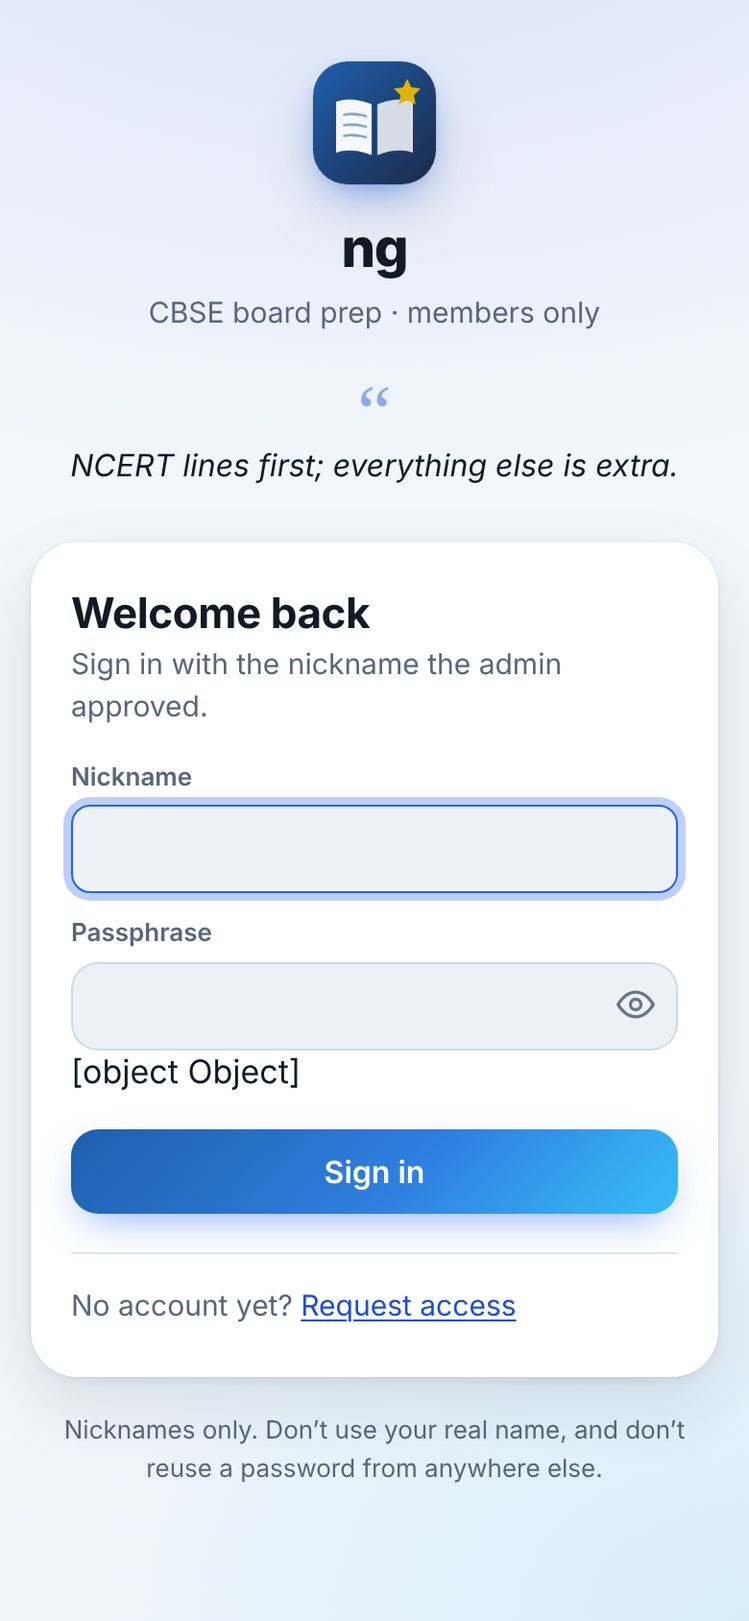
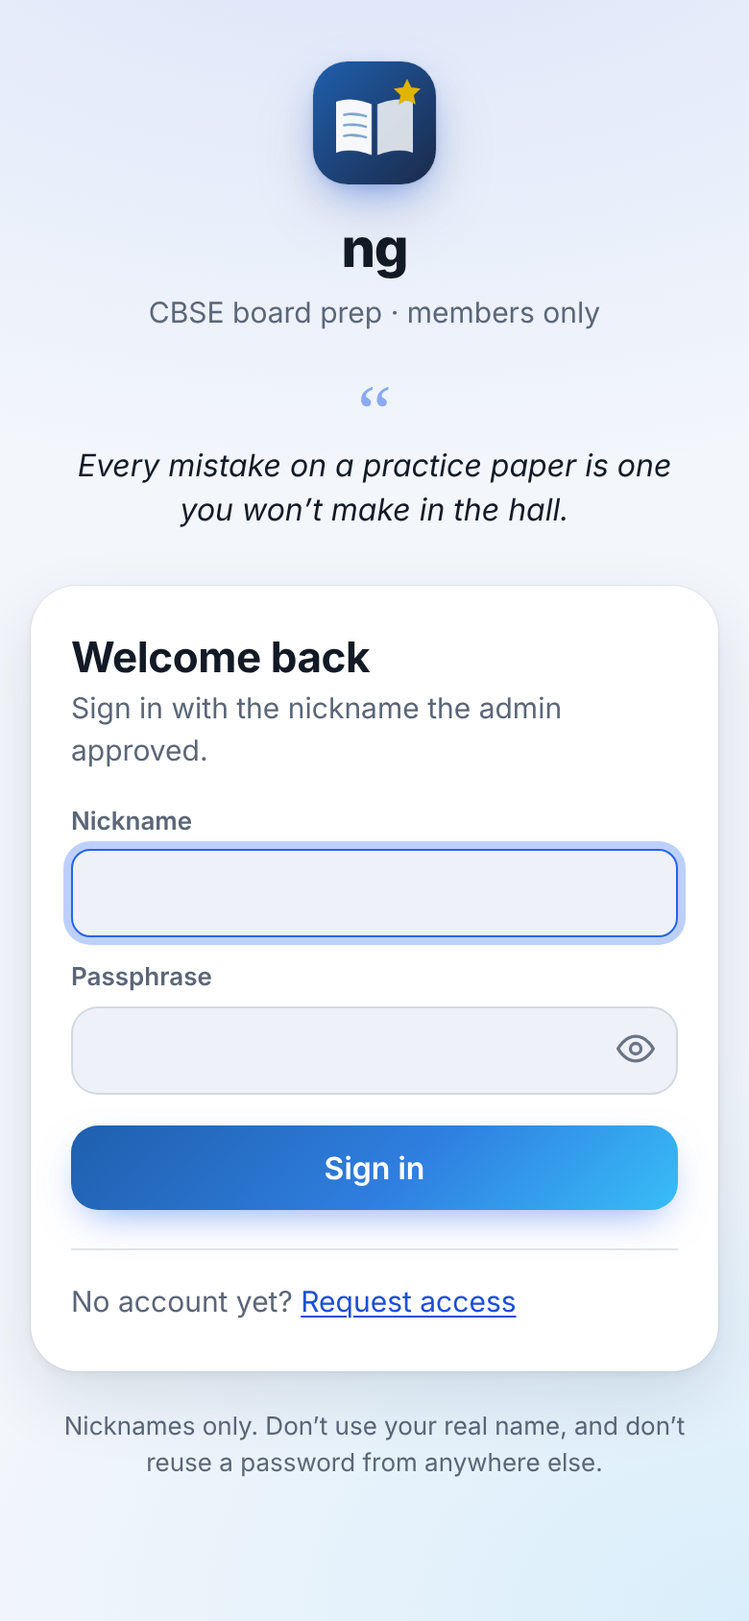
site: minimal Practice from questions.json, with a Mistakes list
- Chapter Practice tab: question count, Start, and a list by type (MCQ, A–R, Case, 2/3/5 marks) → …/<chapter>/quiz/<type>.
- Session (quiz.js): one question per screen; Hint first; MCQ / A–R marked on tap with the model answer as 'Why';
  written answers: 'Show answer' reveals the model answer and the step-mark scheme with tick boxes (self-mark);
  case questions show their parts and mark per part. Keys: 1–6 options, space show, Enter next, h hint.
- Wrong, or under half self-marked, goes to the Mistakes list (store.recordAttempt); a retry at half or better clears it.
- Practice tab: Mistakes card + chapters with questions; #/practice/mistakes lists them with tick-off; #/practice/retry runs them.
- Router: one extra path segment after the chapter tab. ui.raw() now stringifies (fixes [object Object] when nested).
- sw: quiz.js precached, CACHE_VERSION dev15.

Claude-Session: https://claude.ai/code/session_013Q11xHt3aNdyCJserdQXRT

diff --git a/app/views/quiz.js b/app/views/quiz.js
@@ -1,0 +1,163 @@
+// Practice session: one question per screen. Hint first; "Show answer" reveals the model answer and the
+// step-mark scheme with tick boxes so the student marks themselves. MCQ / A–R are marked automatically.
+// Wrong or low self-marked questions go to the Mistakes list (Practice tab). No timers, no exam builder.
+import { html, raw, icon, esc, emptyState, haptic } from '../ui.js';
+import { data, routeFor } from '../data.js';
+import { store } from '../store.js';
+
+export const TYPE_LABEL = { mcq: 'MCQ', ar: 'A–R', case: 'Case', vsa2: '2 marks', sa3: '3 marks', la5: '5 marks' };
+const KEYS = 'ABCDEF';
+
+/** …/<chapter>/quiz/<type|all> */
+export async function quizChapter({ cls, stream, sub, unit, ch, type }) {
+  const all = ch.items?.questions ? await data.questions(sub, ch.id).catch(() => []) : [];
+  const list = (type && type !== 'all' ? all.filter((q) => q.type === type) : all).map((q) => ({ ...q, _sub: sub, _ch: ch, _colour: unit.colour }));
+  return build({ title: `Practice · Ch ${ch.number}`, questions: list, back: routeFor(cls.id, stream.id, sub.id, ch.id, 'practice'), colour: unit.colour, cls, stream });
+}
+
+/** #/practice/retry — every question in the Mistakes list, for the student's subjects. */
+export async function quizMistakes() {
+  const s = store.settings;
+  const subjects = s.class ? (await data.liveSubjects(s.class, s.stream)).filter((x) => store.isMine(x.id)) : [];
+  const list = [];
+  const byKey = {};
+  for (const m of store.mistakes()) (byKey[m.key] ||= []).push(m.id);
+  for (const [key, ids] of Object.entries(byKey)) {
+    const [subId, chId] = key.split('/');
+    const sub = subjects.find((x) => x.id === subId); if (!sub) continue;
+    const { unit, chapter: ch } = data.chapterOf(sub, chId); if (!ch?.items?.questions) continue;
+    const qs = await data.questions(sub, chId).catch(() => []);
+    for (const id of ids) { const q = qs.find((x) => x.id === id); if (q) list.push({ ...q, _sub: sub, _ch: ch, _colour: unit.colour }); }
+  }
+  return build({ title: 'Practice · mistakes', questions: list, back: '#/practice', colour: null, cls: s.class, stream: s.stream, emptyTitle: 'Your mistakes list is empty', emptyText: 'Questions you get wrong, or mark yourself low on, collect here for a second go.' });
+}
+
+function build({ title, questions, back, colour, emptyTitle, emptyText }) {
+  return {
+    title, tab: 'practice', fullscreen: true, unitColour: colour,
+    html: html`<div class="rc pq" id="pq" style="${colour ? `--unit:#${colour}` : ''}">
+      <header class="rc__top">
+        <a class="icon-btn" href="${back}" aria-label="Close">${raw(icon('x'))}</a>
+        <div class="rc__title"><span id="pq-count" class="tnum"></span></div>
+        <span style="width:var(--tap)"></span>
+      </header>
+      <div class="rc__track"><span id="pq-bar"></span></div>
+      <main class="rc__stage" id="pq-stage"></main>
+      <footer class="rc__foot" id="pq-foot"></footer>
+    </div>`,
+    async mount(el) {
+      const stage = el.querySelector('#pq-stage'), foot = el.querySelector('#pq-foot'), count = el.querySelector('#pq-count'), bar = el.querySelector('#pq-bar');
+      if (!questions.length) { stage.innerHTML = String(emptyState({ icon: 'practice', title: emptyTitle || 'No questions of this kind yet', text: emptyText || 'Try another type, or another chapter.', action: `<a class="btn btn--secondary" href="${back}">Back</a>` })); return; }
+      const { renderMarkdown } = await import('../markdown.js');
+      const md = async (s, host) => { const n = await renderMarkdown(String(s || ''), { unitColour: colour || undefined, eager: true }); n.classList.add('rc__md'); host.appendChild(n); return n; };
+      let i = 0, state = null; // state: { q, revealed, got, ticks }
+      const results = [];
+      const autoMarked = (q) => q.type === 'mcq' || q.type === 'ar';
+      const schemeOf = (q) => q.scheme?.length ? q.scheme : q.parts?.length ? q.parts.flatMap((p, k) => (p.scheme?.length ? p.scheme.map((s) => ({ ...s, step: `(${p.id || k + 1}) ${s.step}` })) : [{ step: `(${p.id || k + 1}) ${p.answer ? `Answer: ${p.answer}` : p.model_answer || p.stem}`, marks: p.marks }])) : [{ step: 'Full answer', marks: q.marks }];
+
+      const show = async () => {
+        const q = questions[i]; state = { q, revealed: false, hinted: false, got: null, ticks: new Set() };
+        count.textContent = `${i + 1} of ${questions.length}`;
+        bar.style.width = (i / questions.length * 100).toFixed(1) + '%';
+        stage.innerHTML = `<div class="rc__card pq__card" style="--unit:#${q._colour}">
+            <div class="rc__meta"><span class="chip chip--unit">${esc(q._ch.title)}</span><span class="t-footnote t-3">${TYPE_LABEL[q.type] || q.type} · ${q.marks} mark${q.marks === 1 ? '' : 's'} · <span class="stars">${'★'.repeat(q.stars || 1)}</span> · ${esc(q.label)}</span></div>
+            <div class="pq__stem" id="pq-stem"></div>
+            <div id="pq-parts"></div>
+            <div class="pq__opts" id="pq-opts"></div>
+            <div class="box box--tip pq__hint" id="pq-hint" hidden><div class="box__label">Hint</div><div id="pq-hint-body"></div></div>
+            <div class="pq__answer" id="pq-answer" hidden></div>
+          </div>`;
+        await md(q.stem, stage.querySelector('#pq-stem'));
+        if (q.parts?.length) {
+          const host = stage.querySelector('#pq-parts');
+          for (const [k, p] of q.parts.entries()) {
+            const row = document.createElement('div'); row.className = 'pq__part';
+            row.innerHTML = `<span class="pq__part-key">(${esc(p.id || k + 1)})</span><div class="grow"></div><span class="marks-tag">${p.marks}</span>`;
+            host.appendChild(row); await md(p.stem + (p.options?.length ? '\n\n' + p.options.map((o, j) => `(${KEYS[j]}) ${o}`).join('  \n') : ''), row.querySelector('.grow'));
+          }
+        }
+        if (autoMarked(q)) {
+          const host = stage.querySelector('#pq-opts');
+          for (const [k, o] of q.options.entries()) {
+            const b = document.createElement('button'); b.type = 'button'; b.className = 'pq__opt'; b.dataset.key = KEYS[k];
+            b.innerHTML = `<span class="pq__key">${KEYS[k]}</span><div class="pq__opt-body"></div>`;
+            host.appendChild(b); await md(o, b.querySelector('.pq__opt-body'));
+          }
+        }
+        if (q.hint) await md(q.hint, stage.querySelector('#pq-hint-body'));
+        footer();
+      };
+      const footer = () => {
+        const q = state.q;
+        if (state.revealed) { foot.innerHTML = `<div class="rc__btns"><button class="btn" type="button" data-next>${i + 1 < questions.length ? 'Next' : 'Finish'} ${icon('chevronRight')}</button></div>`; return; }
+        if (autoMarked(q)) { foot.innerHTML = `<div class="rc__btns">${q.hint && !state.hinted ? `<button class="btn btn--plain" type="button" data-hint>${icon('sparkle')} Hint</button>` : '<span></span>'}<span class="t-footnote t-2 center" style="align-self:center">Tap an option</span></div>`; return; }
+        foot.innerHTML = `<div class="rc__btns">${q.hint && !state.hinted ? `<button class="btn btn--plain" type="button" data-hint>${icon('sparkle')} Hint</button>` : `<span></span>`}<button class="btn" type="button" data-reveal>Show answer</button></div>`;
+      };
+      const hint = () => { state.hinted = true; stage.querySelector('#pq-hint').hidden = false; haptic(); footer(); };
+      const choose = (key) => {
+        if (state.revealed) return;
+        const q = state.q; const right = (q.answer || '').trim().toUpperCase().slice(0, 1);
+        for (const b of stage.querySelectorAll('.pq__opt')) { b.disabled = true; if (b.dataset.key === right) b.classList.add('is-right'); else if (b.dataset.key === key) b.classList.add('is-wrong'); }
+        state.got = key === right ? q.marks : 0; state.revealed = true; haptic(key === right ? 'success' : 'medium');
+        const ans = stage.querySelector('#pq-answer'); ans.hidden = false;
+        ans.innerHTML = `<div class="pq__verdict ${key === right ? 'is-right' : 'is-wrong'}">${icon(key === right ? 'check' : 'x')} ${key === right ? 'Correct' : `Not this one — the answer is ${right}`}</div><div class="box box--formula"><div class="box__label">Why</div><div id="pq-why"></div></div>`;
+        md(q.model_answer || `Answer: ${right}`, ans.querySelector('#pq-why'));
+        footer();
+      };
+      const reveal = async () => {
+        if (state.revealed) return;
+        const q = state.q; state.revealed = true;
+        const ans = stage.querySelector('#pq-answer'); ans.hidden = false;
+        const scheme = schemeOf(q);
+        ans.innerHTML = `<div class="box box--skeleton"><div class="box__label">Model answer</div><div id="pq-model"></div></div>
+          <div class="pq__scheme"><div class="list__header" style="padding-left:0">Mark yourself <span class="count tnum" id="pq-score">0 / ${q.marks}</span></div>
+          ${scheme.map((s, k) => `<label class="pq__step"><input type="checkbox" data-step="${k}" data-marks="${s.marks}"><span class="pq__step-text"></span><span class="marks-tag">${s.marks}</span></label>`).join('')}
+          <p class="t-footnote t-3 mt-2">Tick each step you actually wrote. Under half goes to your Mistakes list.</p></div>`;
+        await md(q.model_answer || (q.parts || []).map((p, k) => `**(${p.id || k + 1})** ${p.answer ? `(${p.answer}) ` : ''}${p.model_answer || ''}`).join('<br>'), ans.querySelector('#pq-model'));
+        for (const [k, s] of scheme.entries()) await md(s.step, ans.querySelectorAll('.pq__step-text')[k]);
+        state.got = 0; haptic();
+        ans.addEventListener('change', () => {
+          let got = 0; for (const c of ans.querySelectorAll('input:checked')) got += Number(c.dataset.marks);
+          state.got = Math.min(q.marks, got); ans.querySelector('#pq-score').textContent = `${state.got} / ${q.marks}`;
+        });
+        footer();
+        setTimeout(() => ans.scrollIntoView({ behavior: 'smooth', block: 'start' }), 50);
+      };
+      const next = () => {
+        const q = state.q; const got = state.got ?? 0;
+        const low = store.recordAttempt({ id: q.id, key: `${q._sub.id}/${q._ch.id}`, type: q.type, marks: q.marks, got });
+        results.push({ q, got, low });
+        i++;
+        if (i < questions.length) show(); else finish();
+      };
+      const finish = () => {
+        bar.style.width = '100%'; count.textContent = 'Done';
+        const total = results.reduce((n, r) => n + r.q.marks, 0), got = results.reduce((n, r) => n + r.got, 0), low = results.filter((r) => r.low);
+        stage.innerHTML = `<div class="rc__card center">
+            <div class="rc__big tnum">${got}<span class="t-2" style="font-size:.5em"> / ${total}</span></div>
+            <div class="t-headline mt-2">${low.length === 0 ? 'All good.' : low.length <= 2 ? 'Nearly there.' : 'Worth a second go.'}</div>
+            <p class="t-2 t-subhead mt-2">${low.length ? `${low.length} question${low.length === 1 ? '' : 's'} added to your Mistakes list.` : 'Nothing added to your Mistakes list.'}</p>
+            ${low.length ? `<ul class="pq__lowlist">${low.map((r) => `<li>${esc(r.q._ch.title)} · ${TYPE_LABEL[r.q.type]} · ${r.got}/${r.q.marks}</li>`).join('')}</ul>` : ''}
+          </div>`;
+        foot.innerHTML = `<div class="rc__btns">${low.length ? `<a class="btn btn--plain" href="#/practice/retry">Retry mistakes</a>` : ''}<a class="btn" href="${back}">Done</a></div>`;
+      };
+      foot.addEventListener('click', (e) => {
+        if (e.target.closest('[data-hint]')) hint();
+        if (e.target.closest('[data-reveal]')) reveal();
+        if (e.target.closest('[data-next]')) next();
+      });
+      stage.addEventListener('click', (e) => { const b = e.target.closest('.pq__opt'); if (b && !b.disabled) choose(b.dataset.key); });
+      const onKey = (e) => {
+        if (/^(input|textarea|select)$/i.test(e.target.tagName) || i >= questions.length || document.querySelector('dialog[open]')) return;
+        if (e.key === 'Escape') location.hash = back;
+        else if (state.revealed && e.key === 'Enter') next();
+        else if (!state.revealed && autoMarked(state.q) && /^[1-6]$/.test(e.key)) choose(KEYS[Number(e.key) - 1]);
+        else if (!state.revealed && !autoMarked(state.q) && (e.key === ' ' || e.key === 'Enter')) { e.preventDefault(); reveal(); }
+        else if (e.key === 'h' && state.q.hint) hint();
+      };
+      document.addEventListener('keydown', onKey);
+      show();
+      return () => document.removeEventListener('keydown', onKey);
+    },
+  };
+}

diff --git a/app/views/practice.js b/app/views/practice.js
@@ -1,22 +1,54 @@
-import { html, raw, icon, largeTitle, esc, emptyState, listItem } from '../ui.js';
+// Practice tab: your Mistakes list, then the chapters that have questions. Sessions run in quiz.js.
+import { html, raw, icon, largeTitle, esc, emptyState, listItem, toast } from '../ui.js';
 import { data, routeFor } from '../data.js';
 import { store } from '../store.js';
+import { TYPE_LABEL } from './quiz.js';
 
-export async function practice() {
+export async function practice(route) {
+  if (route.sub === 'retry') { const { quizMistakes } = await import('./quiz.js'); return quizMistakes(); }
   const s = store.settings;
   if (!s.class) return { title: 'Practice', largeTitle: true, tab: 'practice', html: html`${largeTitle('Practice')}${emptyState({ icon: 'practice', title: 'Choose your class first', text: 'Practice sets are organised by subject and chapter.', action: '<a class="btn" href="#/classes">Choose class</a>' })}` };
   const subjects = (await data.liveSubjects(s.class, s.stream)).filter((x) => store.isMine(x.id));
+  if (route.sub === 'mistakes') return mistakesList(subjects, s);
   const withQ = subjects.map((sub) => ({ sub, chapters: data.allChapters(sub).filter((c) => c.items?.questions) })).filter((x) => x.chapters.length);
-  const mistakes = store.progress().mistakes?.length || 0;
+  const mistakes = store.mistakes().length;
   return {
     title: 'Practice', largeTitle: true, tab: 'practice',
-    html: html`${largeTitle('Practice', { eyebrow: 'By chapter, type and stars' })}
-      <div class="stats mb-4">
-        ${raw(`<div class="stat"><div class="stat__value tnum">${withQ.reduce((n, x) => n + x.chapters.reduce((m, c) => m + c.questions, 0), 0)}</div><div class="stat__label">questions in the bank</div></div>`)}
-        ${raw(`<div class="stat"><div class="stat__value tnum">${mistakes}</div><div class="stat__label">in your mistakes list</div></div>`)}
-      </div>
-      ${withQ.length ? withQ.map(({ sub, chapters }) => raw(`<div class="list__header"><span>${esc(sub.name)}</span><span class="count">${chapters.length} chapters</span></div><div class="list">${chapters.map((c) => listItem({ href: routeFor(s.class, s.stream, sub.id, c.id, 'practice'), title: `${c.number}. ${c.title}`, sub: `${c.questions} questions · ${Object.entries(c.question_types).map(([t, n]) => `${n} ${t}`).join(', ')}`, leading: String(c.number), leadingStyle: `--unit:#${c.unitObj.colour}` })).join('')}</div>`)) :
-        emptyState({ icon: 'practice', title: 'No practice sets yet', text: 'Question banks arrive subject by subject. Each question comes with a hint, a model answer and a step-mark scheme so you can mark yourself the way an examiner would.', action: '<a class="btn btn--secondary" href="#/subjects">Browse subjects</a>' })}
-      <div class="card mt-6"><div class="t-headline">How practice will work</div><ul class="t-2 t-subhead mt-2" style="padding-left:1.2em"><li>One question per screen; hint first, full answer only when you ask.</li><li>MCQ and A–R marked automatically; written answers shown with the step-mark scheme.</li><li>Timed exams built from the CBSE 2026–27 pattern: full paper, one unit, or chosen chapters.</li><li>Every wrong or low-marked question lands in your Mistakes list for revision.</li></ul></div>`,
+    html: html`${largeTitle('Practice', { eyebrow: 'One question at a time · mark yourself' })}
+      <a class="card continue pressable mb-4" href="#/practice/mistakes" style="--unit:${mistakes ? 'var(--danger)' : '#8795AB'}">
+        <span class="list__leading">${raw(icon('flag'))}</span>
+        <span class="continue__main"><span class="continue__title">${mistakes ? `${mistakes} in your Mistakes list` : 'Mistakes list is empty'}</span><span class="continue__sec" style="color:var(--text-2);font-weight:500">${mistakes ? 'Wrong or low-marked questions · tap to retry' : 'Wrong or low-marked questions collect here for a second go'}</span></span>
+        ${raw(icon('chevronRight', { class: 'chev', size: 20 }))}
+      </a>
+      ${withQ.length ? withQ.map(({ sub, chapters }) => raw(`<div class="list__header"><span>${esc(sub.name)}</span><span class="count">${chapters.reduce((n, c) => n + c.questions, 0)} questions</span></div><div class="list">${chapters.map((c) => String(listItem({ href: routeFor(s.class, s.stream, sub.id, c.id, 'practice'), title: `${c.number}. ${c.title}`, sub: Object.entries(c.question_types).map(([t, n]) => `${n} × ${TYPE_LABEL[t] || t}`).join(' · '), leading: String(c.number), leadingStyle: `--unit:#${c.unitObj.colour}` }))).join('')}</div>`)) :
+        emptyState({ icon: 'practice', title: 'No practice sets yet', text: 'Question banks arrive subject by subject. Each question has a hint, a model answer and a step-mark scheme so you can mark yourself the way an examiner would.', action: '<a class="btn btn--secondary" href="#/subjects">Browse subjects</a>' })}`,
+  };
+}
+
+async function mistakesList(subjects, s) {
+  const ms = store.mistakes();
+  const groups = {};
+  for (const m of ms) (groups[m.key] ||= []).push(m);
+  const rows = [];
+  for (const [key, list] of Object.entries(groups)) {
+    const [subId, chId] = key.split('/');
+    const sub = subjects.find((x) => x.id === subId); if (!sub) continue;
+    const { unit, chapter: ch } = data.chapterOf(sub, chId); if (!ch) continue;
+    const qs = ch.items?.questions ? await data.questions(sub, chId).catch(() => []) : [];
+    rows.push({ sub, ch, unit, items: list.map((m) => ({ m, q: qs.find((q) => q.id === m.id) })).filter((x) => x.q) });
+  }
+  return {
+    title: 'Mistakes', tab: 'practice', back: '#/practice',
+    html: html`<h1 class="t-title" style="margin:var(--s-4) 0">Mistakes</h1>
+      ${rows.length ? html`<a class="btn btn--block mb-4" href="#/practice/retry">${raw(icon('practice'))} Retry all ${ms.length}</a>
+        ${rows.map(({ sub, ch, unit, items }) => raw(`<div class="list__header"><span>${esc(sub.name)} · Ch ${ch.number}</span><span class="count">${items.length}</span></div><div class="list">${items.map(({ m, q }) => `<div class="list__item has-leading" style="--unit:#${unit.colour}"><span class="list__leading">${TYPE_LABEL[q.type]?.split(' ')[0] || q.type}</span><span class="list__body"><span class="list__title pq__stem-line">${esc(q.stem.replace(/\*+|<br>|\$/g, ' ').slice(0, 140))}</span><span class="list__sub">${m.got}/${m.marks} last time · ${esc(q.label)}</span></span><button class="icon-btn" type="button" data-clear="${esc(q.id)}" aria-label="Remove from mistakes">${icon('check')}</button></div>`).join('')}</div>`))}
+        <p class="t-footnote t-3 mt-4">A question leaves this list when you score at least half on a retry, or when you tick it off here.</p>`
+        : emptyState({ icon: 'check', title: 'Nothing here', text: 'Wrong answers and low self-marks from Practice collect here. Open a chapter’s Practice tab to start.', action: '<a class="btn btn--secondary" href="#/practice">Back to Practice</a>' })}`,
+    mount(el) {
+      el.addEventListener('click', (e) => {
+        const b = e.target.closest('[data-clear]'); if (!b) return;
+        store.clearMistake(b.dataset.clear); const item = b.closest('.list__item'); item.remove(); toast('Removed from mistakes');
+      });
+    },
   };
 }

diff --git a/app/views/chapter.js b/app/views/chapter.js
@@ -18,6 +18,7 @@ export async function chapter(route) {
   if (!ch) return { title: 'Not found', tab: 'subjects', back: routeFor(cls.id, stream.id, sub.id), html: emptyState({ icon: 'alert', title: 'No such chapter', action: `<a class="btn btn--secondary" href="${routeFor(cls.id, stream.id, sub.id)}">Back to ${esc(sub.name)}</a>` }) };
   if (route.tab === 'read') { const { reader } = await import('./reader.js'); return reader({ cls, stream, sub, unit, ch }); }
   if (route.tab === 'recall') { const { recallChapter } = await import('./recall.js'); return recallChapter({ cls, stream, sub, unit, ch }); }
+  if (route.tab === 'quiz') { const { quizChapter } = await import('./quiz.js'); return quizChapter({ cls, stream, sub, unit, ch, type: route.extra || 'all' }); }
   if (route.tab === 'formulas') route = { ...route, tab: 'mustknow' }; // old links
   if (route.tab === 'mynotes') route = { ...route, tab: null, openHighlights: true }; // old links: the sheet now
   const defaultTab = ch.items?.notes ? 'notes' : ch.items?.mustknow ? 'mustknow' : 'notes';
@@ -105,8 +106,19 @@ async function renderTab(tab, ctx) {
   if (tab === 'practice') {
     const q = ch.items?.questions ? await data.questions(sub, ch.id).catch(() => null) : null;
     if (!q?.length) { panel.innerHTML = String(emptyState({ icon: 'practice', title: 'No practice questions yet', text: 'Each question comes with a hint, a model answer and a step-mark scheme so you can mark yourself.', action: requestLink })); return; }
-    const byType = Object.entries(ch.question_types || {});
-    panel.innerHTML = `<div class="card"><div class="t-headline">${q.length} questions ready</div><p class="t-2 t-footnote mt-2">${byType.map(([t, n]) => `${n} ${t.toUpperCase()}`).join(' · ')}</p><p class="t-2 t-subhead mt-2">Practice mode (one question at a time, hints, self-marking) is the next thing being built. Until then, use the chapter notes and formula sheet.</p></div>`;
+    const { TYPE_LABEL } = await import('./quiz.js');
+    const counts = {}; for (const x of q) counts[x.type] = (counts[x.type] || 0) + 1;
+    const order = ['mcq', 'ar', 'case', 'vsa2', 'sa3', 'la5'].filter((t) => counts[t]);
+    const attempts = store.progress().attempts || [];
+    const done = new Set(attempts.filter((a) => a.key === key).map((a) => a.id)).size;
+    const wrong = store.mistakes().filter((m) => m.key === key).length;
+    const quiz = (t) => routeFor(ctx.cls.id, ctx.stream.id, sub.id, ch.id, 'quiz') + '/' + t;
+    panel.innerHTML = `<div class="card card--tint mb-4" style="--unit:#${unit.colour}">
+        <div class="row"><span class="list__leading">${icon('practice')}</span><div class="grow"><div class="t-headline">${q.length} questions</div><div class="t-2 t-footnote">${done ? `${done} attempted` : 'One at a time, hint first, mark yourself'}${wrong ? ` · <strong>${wrong} in Mistakes</strong>` : ''}</div></div><a class="btn btn--unit btn--sm" href="${quiz('all')}">Start</a></div>
+      </div>
+      <div class="list__header" style="padding-left:0">By type</div>
+      <div class="list">${order.map((t) => `<a class="list__item has-leading pressable" href="${quiz(t)}" style="--unit:#${unit.colour}"><span class="list__leading">${counts[t]}</span><span class="list__body"><span class="list__title">${TYPE_LABEL[t]}</span><span class="list__sub">${{ mcq: '1 mark · marked for you', ar: 'Assertion–Reason · 1 mark · marked for you', case: 'Case / source-based · 4 marks · mark yourself', vsa2: 'Very short answer · mark yourself', sa3: 'Short answer · step marks', la5: 'Long answer · step marks' }[t]}</span></span><span class="list__trailing">${icon('chevronRight', { class: 'chev' })}</span></a>`).join('')}</div>
+      ${wrong ? `<div class="list mt-4"><a class="list__item has-leading pressable" href="#/practice/retry" style="--unit:var(--danger)"><span class="list__leading">${icon('flag')}</span><span class="list__body"><span class="list__title">Retry mistakes</span><span class="list__sub">All chapters in your Mistakes list</span></span><span class="list__trailing">${icon('chevronRight', { class: 'chev' })}</span></a></div>` : ''}`;
   }
 }
 

diff --git a/styles/reader.css b/styles/reader.css
@@ -150,3 +150,37 @@
 .rd.is-boxes .prose > h2.fs-keep { margin-top: var(--s-6); font-size: 1em; }
 .rd.is-boxes .prose > .box--formula { margin-top: var(--s-3); }
 .rd.is-boxes .rd__divider { margin-top: var(--s-8); }
+
+/* ---------- Practice session (shares the .rc frame) ---------- */
+.pq__card { width: min(100%, 44rem); }
+.pq__stem { font-size: var(--fs-headline); line-height: 1.5; }
+.pq__stem .rc__md { font-size: inherit; font-weight: 500; }
+.pq__part { display: flex; gap: var(--s-2); align-items: flex-start; margin-top: var(--s-3); padding-top: var(--s-3); border-top: 1px solid var(--separator); font-size: var(--fs-callout); }
+.pq__part-key { font-weight: 700; color: var(--unit, var(--accent)); flex: 0 0 auto; }
+.pq__opts { display: grid; gap: var(--s-2); margin-top: var(--s-4); }
+.pq__opt { display: flex; align-items: center; gap: var(--s-3); width: 100%; text-align: left; min-height: var(--tap); padding: var(--s-2) var(--s-3); border-radius: var(--r-md); background: var(--surface-2); border: 1.5px solid transparent; color: var(--text); font-size: var(--fs-callout); transition: background var(--t-fast), border-color var(--t-fast), transform var(--t-fast); }
+.pq__opt:not(:disabled):active { transform: scale(0.985); }
+.pq__opt:not(:disabled):hover { border-color: var(--separator-strong); }
+.pq__key { flex: 0 0 auto; width: 1.75rem; height: 1.75rem; border-radius: 50%; display: grid; place-items: center; background: var(--surface); font-weight: 700; font-size: var(--fs-footnote); box-shadow: var(--shadow-1); }
+.pq__opt-body { flex: 1 1 auto; min-width: 0; }
+.pq__opt-body .rc__md > * + * { margin-top: 0.3em; }
+.pq__opt.is-right { background: var(--success-soft); border-color: var(--success); }
+.pq__opt.is-right .pq__key { background: var(--success); color: #fff; }
+.pq__opt.is-wrong { background: var(--danger-soft); border-color: var(--danger); }
+.pq__opt.is-wrong .pq__key { background: var(--danger); color: #fff; }
+.pq__opt:disabled:not(.is-right):not(.is-wrong) { opacity: 0.55; }
+.pq__hint { margin-top: var(--s-4); }
+.pq__answer { margin-top: var(--s-4); }
+.pq__answer > * + * { margin-top: var(--s-3); }
+.pq__verdict { display: flex; align-items: center; gap: var(--s-2); font-weight: 700; font-size: var(--fs-headline); }
+.pq__verdict svg { width: 1.25rem; height: 1.25rem; }
+.pq__verdict.is-right { color: var(--success); } .pq__verdict.is-wrong { color: var(--danger); }
+.pq__step { display: flex; align-items: flex-start; gap: var(--s-3); padding: var(--s-2) 0; border-top: 1px solid var(--separator); cursor: pointer; font-size: var(--fs-subhead); }
+.pq__step input { width: 1.375rem; height: 1.375rem; min-height: 0; margin: 0.1rem 0 0; padding: 0; accent-color: var(--success); flex: 0 0 auto; }
+.pq__step-text { flex: 1 1 auto; min-width: 0; }
+.pq__step-text .rc__md { font-size: inherit; }
+.pq__step .marks-tag { float: none; margin: 0; flex: 0 0 auto; }
+.pq__lowlist { list-style: none; padding: 0; margin: var(--s-4) 0 0; font-size: var(--fs-subhead); color: var(--text-2); }
+.pq__lowlist li + li { margin-top: 0.25em; }
+.pq .rc__btns { display: grid; grid-template-columns: 1fr 1fr; gap: var(--s-3); }
+.pq .rc__btns > :only-child { grid-column: 1 / -1; width: 100%; }

diff --git a/sw.js b/sw.js
@@ -3,7 +3,7 @@
    - Content (content/**, data/**): stale-while-revalidate so notes, plan and practice work offline once opened.
    - Vendored libraries (vendor/**: KaTeX, marked, DOMPurify, fonts): cache-first, version-pinned.
    Updates: the new worker waits; the page shows "New version available" and posts SKIP_WAITING. */
-const CACHE_VERSION = 'dev14';
+const CACHE_VERSION = 'dev15';
 const SHELL = `ng-shell-${CACHE_VERSION}`;
 const CONTENT = 'ng-content-v1';
 const LIBS = 'ng-libs-v1';
@@ -14,7 +14,7 @@ const SHELL_FILES = [
   './styles/tokens.css', './styles/base.css', './styles/layout.css', './styles/components.css', './styles/reader.css', './styles/print.css',
   './app/main.js', './app/router.js', './app/store.js', './app/data.js', './app/ui.js', './app/icons.js', './app/theme.js', './app/pwa.js', './app/markdown.js',
   './app/views/index.js', './app/views/today.js', './app/views/classes.js', './app/views/subject.js', './app/views/chapter.js',
-  './app/views/practice.js', './app/views/progress.js', './app/views/plan.js', './app/views/more.js', './app/views/reader.js', './app/views/recall.js', './app/views/formulas.js', './app/views/exameve.js', './app/recall.js', './app/highlights.js', './app/auth.js', './app/quotes.js', './app/views/signin.js', './app/views/admin.js', './app/github.js',
+  './app/views/practice.js', './app/views/progress.js', './app/views/plan.js', './app/views/more.js', './app/views/reader.js', './app/views/recall.js', './app/views/formulas.js', './app/views/exameve.js', './app/views/quiz.js', './app/recall.js', './app/highlights.js', './app/auth.js', './app/quotes.js', './app/views/signin.js', './app/views/admin.js', './app/github.js',
   './assets/icons/icon-192.png', './assets/icons/icon-64.png', './assets/icons/icon-512.png', './assets/icons/favicon.svg',
   './data/classes.json', './data/index.json',
   './vendor/marked.esm.js', './vendor/purify.es.mjs', './vendor/katex/katex.mjs', './vendor/katex/katex.min.css', './vendor/katex/contrib/auto-render.mjs', './vendor/katex/contrib/mhchem.mjs',

diff --git a/app/router.js b/app/router.js
@@ -3,7 +3,7 @@
 //   #/<class>                        class 9–10 → subject list; 11–12 → stream picker
 //   #/<class>/<stream>               subject list (11–12)
 //   #/<class>[/<stream>]/<subject>   chapter list
-//   #/<class>[/<stream>]/<subject>/<chapter>[/<tab>]
+//   #/<class>[/<stream>]/<subject>/<chapter>[/<tab>[/<extra>]]   (quiz/<type>)
 import { streamless } from './data.js';
 
 export function parseHash(hash = location.hash) {
@@ -19,10 +19,11 @@ export function parseHash(hash = location.hash) {
     const subjectId = seg[i] || null;
     const chapterId = seg[i + 1] || null;
     const tab = seg[i + 2] || null;
+    const extra = seg[i + 3] || null; // e.g. …/<chapter>/quiz/<type>
     if (!streamId) return { name: 'streams', classId, seg };
     if (!subjectId) return { name: 'subjects-of', classId, streamId, seg };
     if (!chapterId) return { name: 'subject', classId, streamId, subjectId, seg };
-    return { name: 'chapter', classId, streamId, subjectId, chapterId, tab: tab || null, seg };
+    return { name: 'chapter', classId, streamId, subjectId, chapterId, tab: tab || null, extra, seg };
   }
   if (top === 'more') return { name: 'more', sub: seg[1] || null, seg };
   if (['subjects', 'classes', 'plan', 'practice', 'progress', 'about', 'request', 'access', 'login', 'admin', 'search', 'recall', 'signin'].includes(top)) return { name: top, sub: seg[1] || null, seg };

diff --git a/app/store.js b/app/store.js
@@ -57,6 +57,21 @@ export const store = {
     this.saveProgress((p) => { p.tracker = { ...(p.tracker || {}) }; p.tracker[chapterKey] = { ...(p.tracker[chapterKey] || {}), ...patch, updated: new Date().toISOString() }; return p; });
   },
 
+  // ---- practice: attempts and the mistakes list ----
+  /** Record one attempt. Wrong, or self-marked under half, goes to Mistakes; a good retry clears it. */
+  recordAttempt({ id, key, type, marks, got }) {
+    const low = got < marks / 2;
+    this.saveProgress((p) => {
+      p.attempts = [...(p.attempts || []), { id, key, type, marks, got, at: new Date().toISOString() }].slice(-500);
+      const rest = (p.mistakes || []).filter((m) => (m.id || m) !== id);
+      p.mistakes = low ? [...rest, { id, key, type, marks, got, at: new Date().toISOString() }] : rest;
+      return p;
+    });
+    return low;
+  },
+  mistakes() { return (this.progress().mistakes || []).filter((m) => m && m.id); },
+  clearMistake(id) { this.saveProgress((p) => { p.mistakes = (p.mistakes || []).filter((m) => (m.id || m) !== id); return p; }); },
+
   // ---- misc flags ----
   flag(name) { return read(`flag.${name}`, false); },
   setFlag(name, v = true) { write(`flag.${name}`, v); },

diff --git a/app/ui.js b/app/ui.js
@@ -18,7 +18,7 @@ export function html(strings, ...vals) {
   });
   return { __raw: out, toString() { return out; } };
 }
-export const raw = (s) => ({ __raw: String(s) });
+export const raw = (s) => ({ __raw: String(s), toString() { return this.__raw; } });
 export { icon };
 
 export const $ = (sel, root = document) => root.querySelector(sel);
